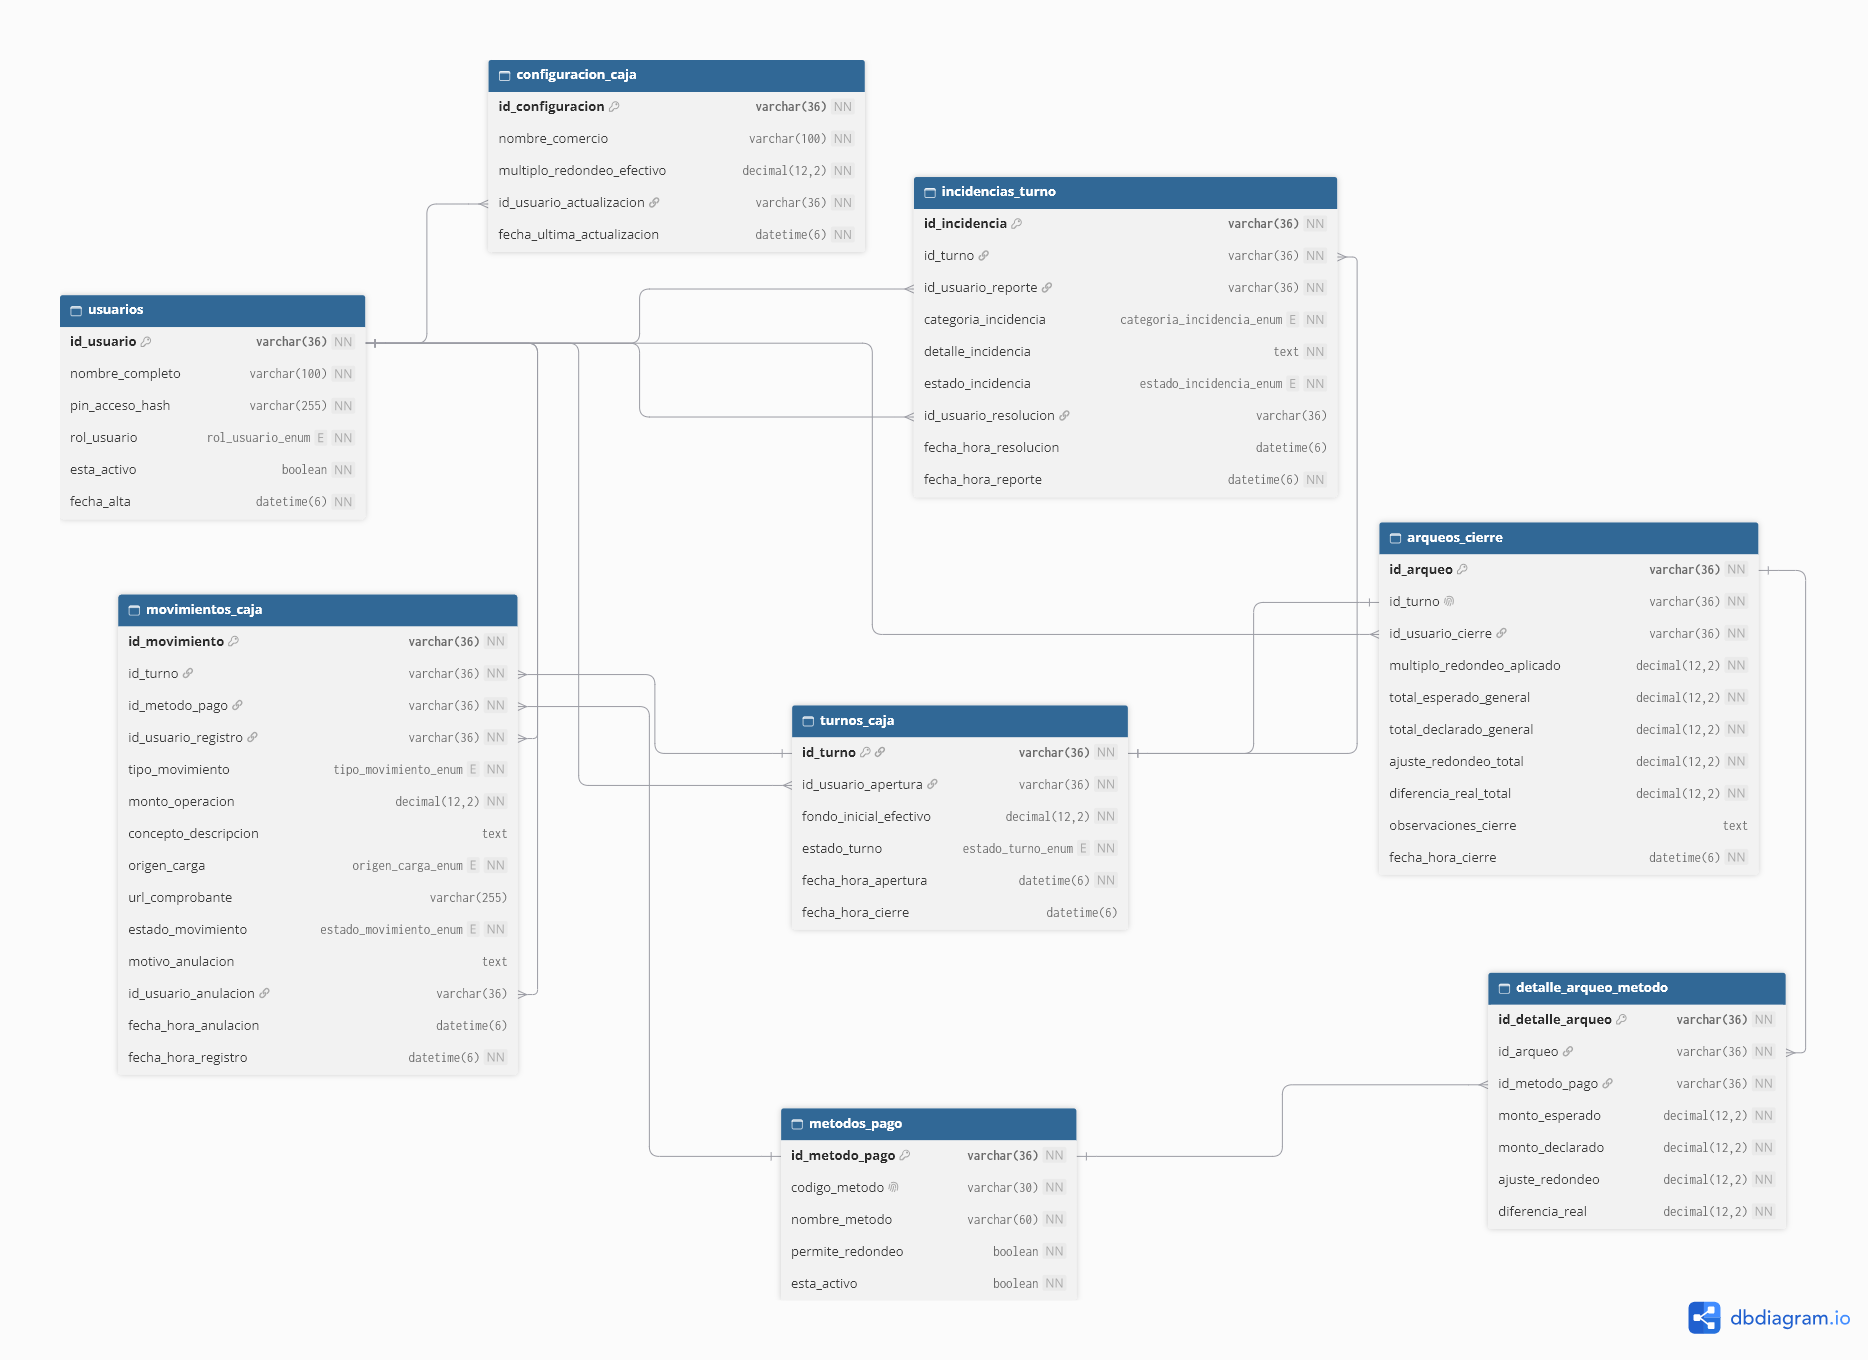
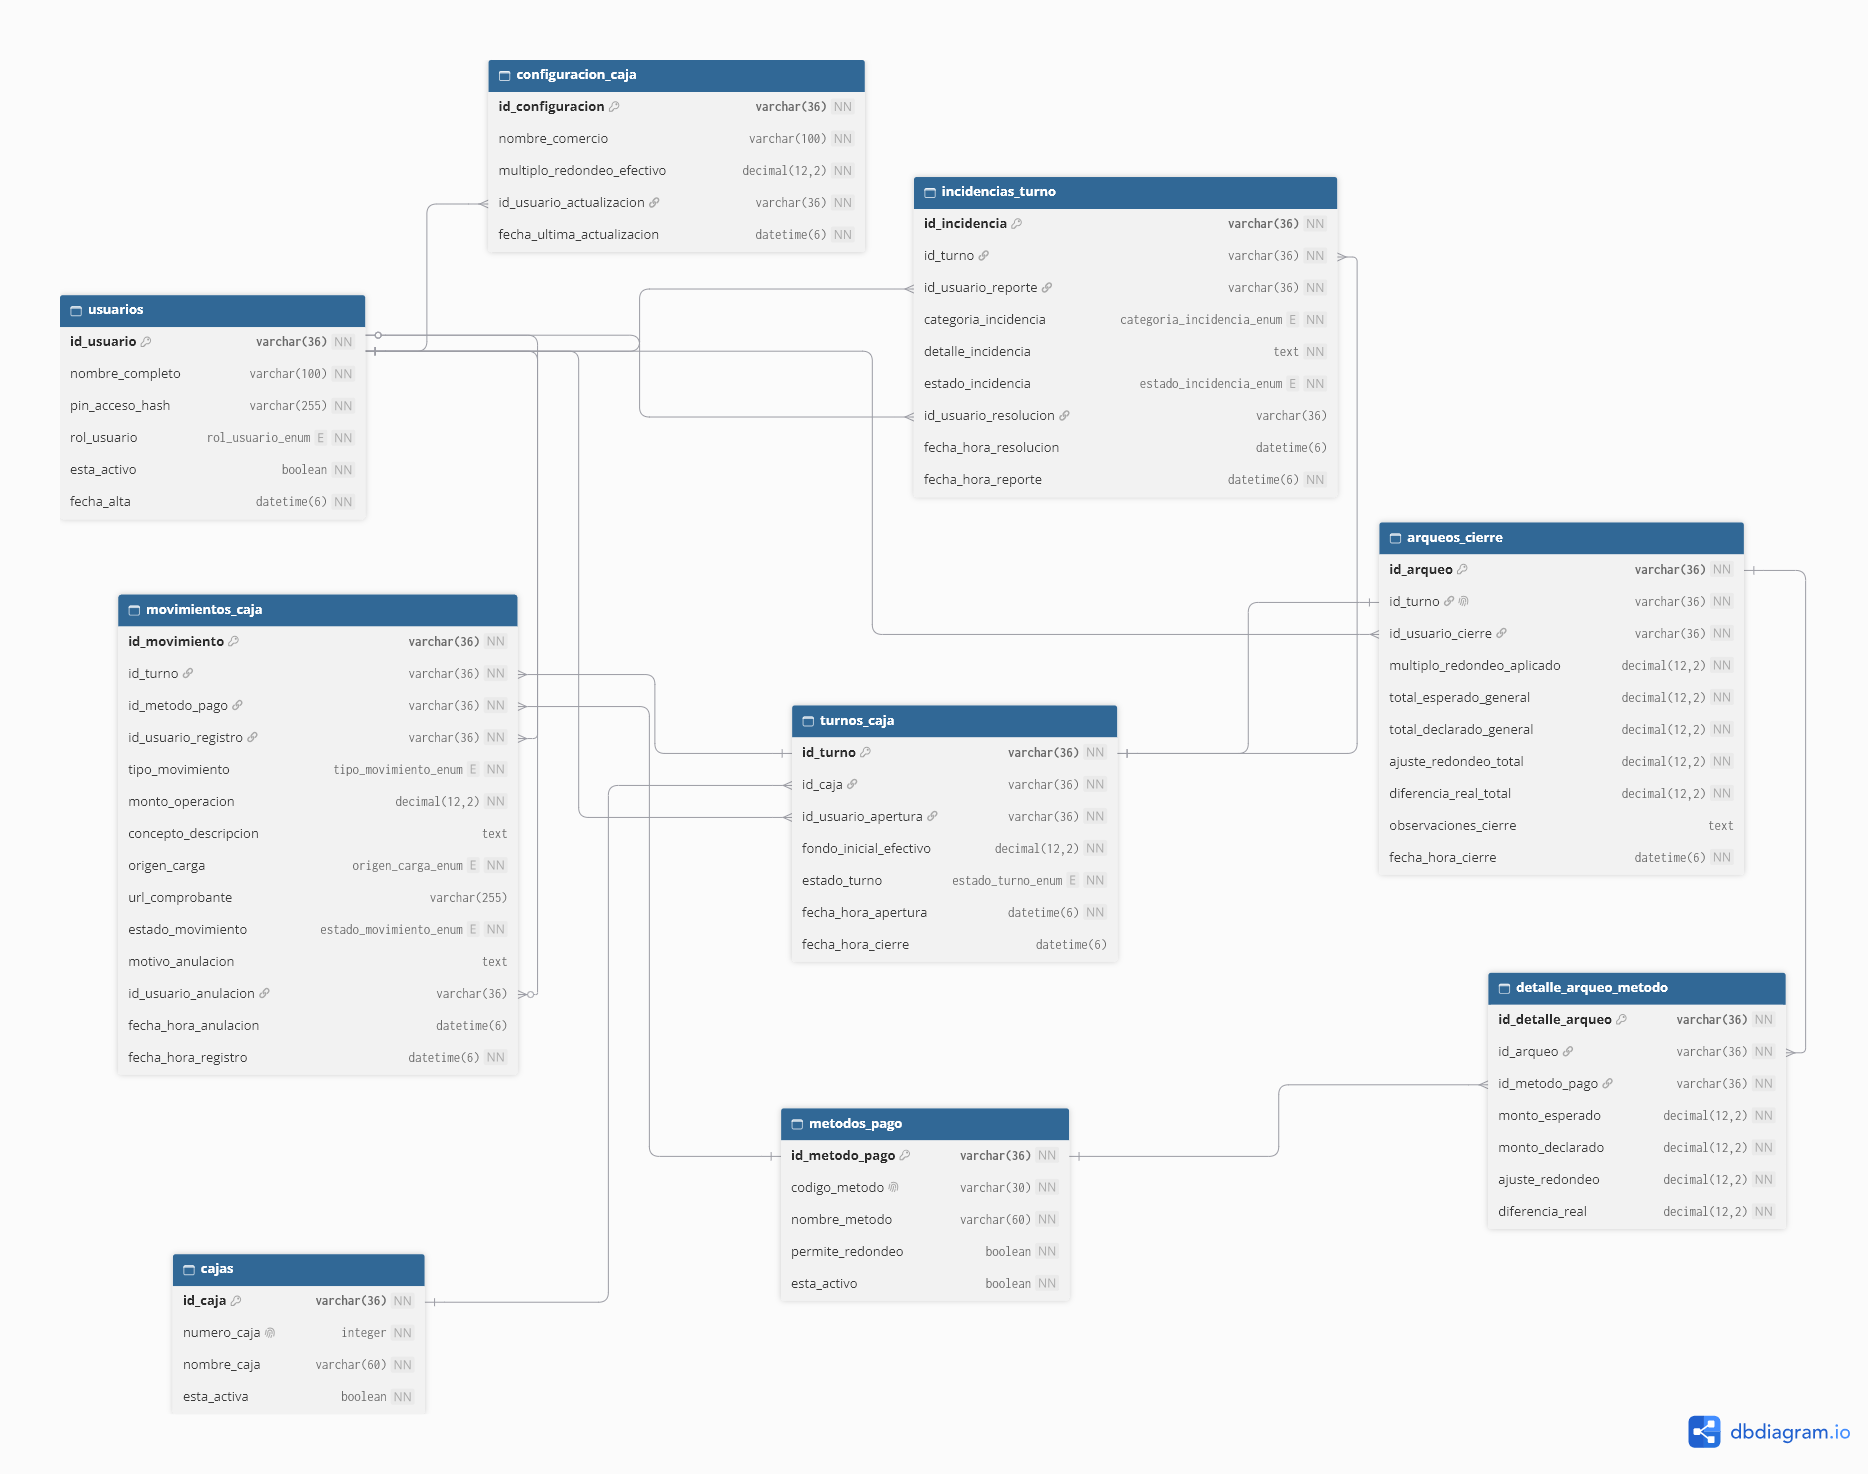
docs(diagramas): actualizar DER y diagrama de clases a Multi-Caja y alinear entidad Caja

diff --git a/backend/src/domain/entities/Caja.ts b/backend/src/domain/entities/Caja.ts
@@ -20,4 +20,12 @@ export class Caja {
     this.nombreCaja = props.nombreCaja;
     this.estaActiva = props.estaActiva;
   }
+
+  estaHabilitada(): boolean {
+    return this.estaActiva;
+  }
+
+  obtenerEtiqueta(): string {
+    return `Caja #${this.numeroCaja} — ${this.nombreCaja}`;
+  }
 }

diff --git a/docs/02-modelo-datos.md b/docs/02-modelo-datos.md
@@ -176,6 +176,7 @@ Partes de novedades y contingencias reportadas durante cualquier turno (mañana,
 | :--- | :---: | :--- | :--- |
 | `usuarios` | `1 : N` | `configuracion_caja` | Actualiza la regla de redondeo vigente (`id_usuario_actualizacion`). |
 | `usuarios` | `1 : N` | `turnos_caja` | Abre turnos de caja (`id_usuario_apertura`). |
+| `cajas` | `1 : N` | `turnos_caja` | Asocia cada turno a su terminal física de cobro (`id_caja`). |
 | `usuarios` | `1 : N` | `movimientos_caja` | Registra (`id_usuario_registro`) o anula (`id_usuario_anulacion`) movimientos. |
 | `usuarios` | `1 : N` | `arqueos_cierre` | Confirma el arqueo y cierre (`id_usuario_cierre`). |
 | `usuarios` | `1 : N` | `incidencias_turno` | Reporta (`id_usuario_reporte`) o resuelve (`id_usuario_resolucion`) incidencias. |
@@ -196,7 +197,7 @@ Partes de novedades y contingencias reportadas durante cualquier turno (mañana,
 | **RN-02** | `movimientos_caja.id_metodo_pago`, `turnos_caja.fondo_inicial_efectivo`, `detalle_arqueo_metodo`. |
 | **RN-03** | `metodos_pago.permite_redondeo` (`FALSE` para digitales) y `detalle_arqueo_metodo.ajuste_redondeo = 0.00`. |
 | **RN-04** | `configuracion_caja.multiplo_redondeo_efectivo` + foto histórica en `arqueos_cierre.multiplo_redondeo_aplicado`. |
-| **RN-05** | `turnos_caja.estado_turno` (restricción de aplicación/índice parcial: máximo 1 turno `ABIERTO`) y `fecha_hora_cierre`. |
+| **RN-05** | `cajas`, `turnos_caja.id_caja`, `turnos_caja.estado_turno` (doble índice único parcial: `uniq_turno_abierto_por_caja` y `uniq_turno_abierto_por_usuario`) y `fecha_hora_cierre`. |
 | **RN-06** | Tipos `DECIMAL(12,2)`, `CHECK (monto_operacion > 0)`, `CHECK (fondo_inicial_efectivo >= 0)`, `concepto_descripcion`. |
 | **RN-07** | Columnas determinísticas en `arqueos_cierre` y `detalle_arqueo_metodo` (`monto_esperado`, `monto_declarado`, `ajuste_redondeo`, `diferencia_real`). |
 | **RN-08** | `usuarios.rol_usuario` + trazabilidad por FK en cada tabla crítica. |
